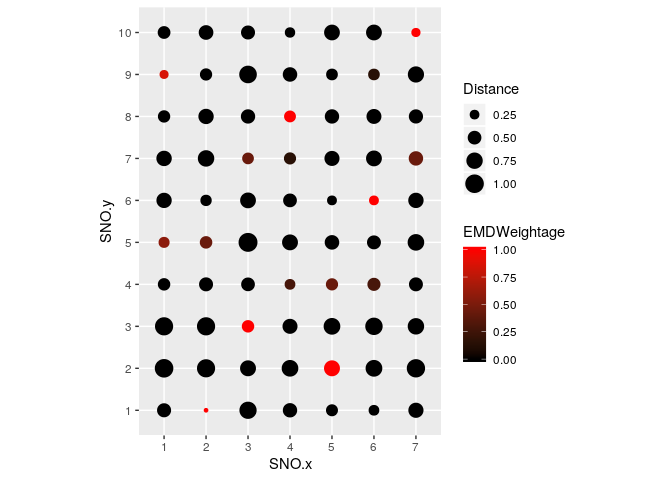
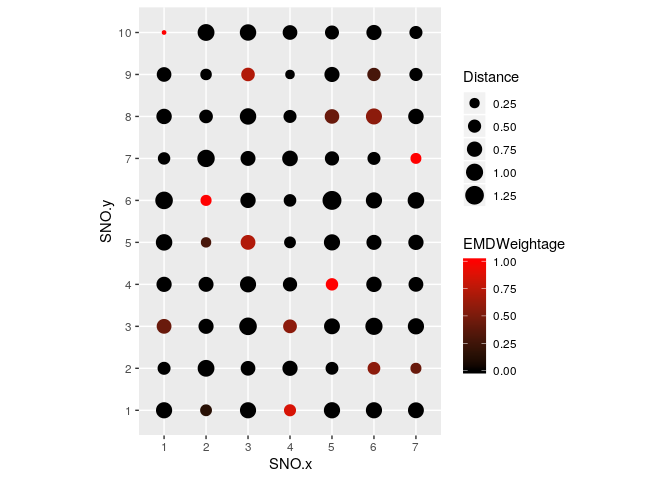
Some cleaning up of xG comparison chart.

diff --git a/README.md b/README.md
@@ -563,10 +563,19 @@ visualisation.
        dtPasses,
        dtPlayerLabels
     )
-
     print(pPassNetworkChart)
 
 ![](README_files/figure-markdown_strict/fPassNetworkChart-1.png)
+
+### fXgBuildUpComparison
+
+    pXgBuildUpComparison = fXgBuildUpComparison(
+       dtXg,
+       dtTeamLabels
+    )
+    print(pXgBuildUpComparison)
+
+![](README_files/figure-markdown_strict/fXgBuildUpComparison-1.png)
 
 Logic and Algorithms
 --------------------
@@ -610,7 +619,7 @@ nature of the data.
     )
 
     print(fGetEMDFromDetailedEMD(lprec))
-    #> [1] 0.3525632
+    #> [1] 0.4347787
 
     # This value should be the same as that computed by emdist package's emd function.
     # EMD needs the weightage of each point, which is assigned as equal in our 
